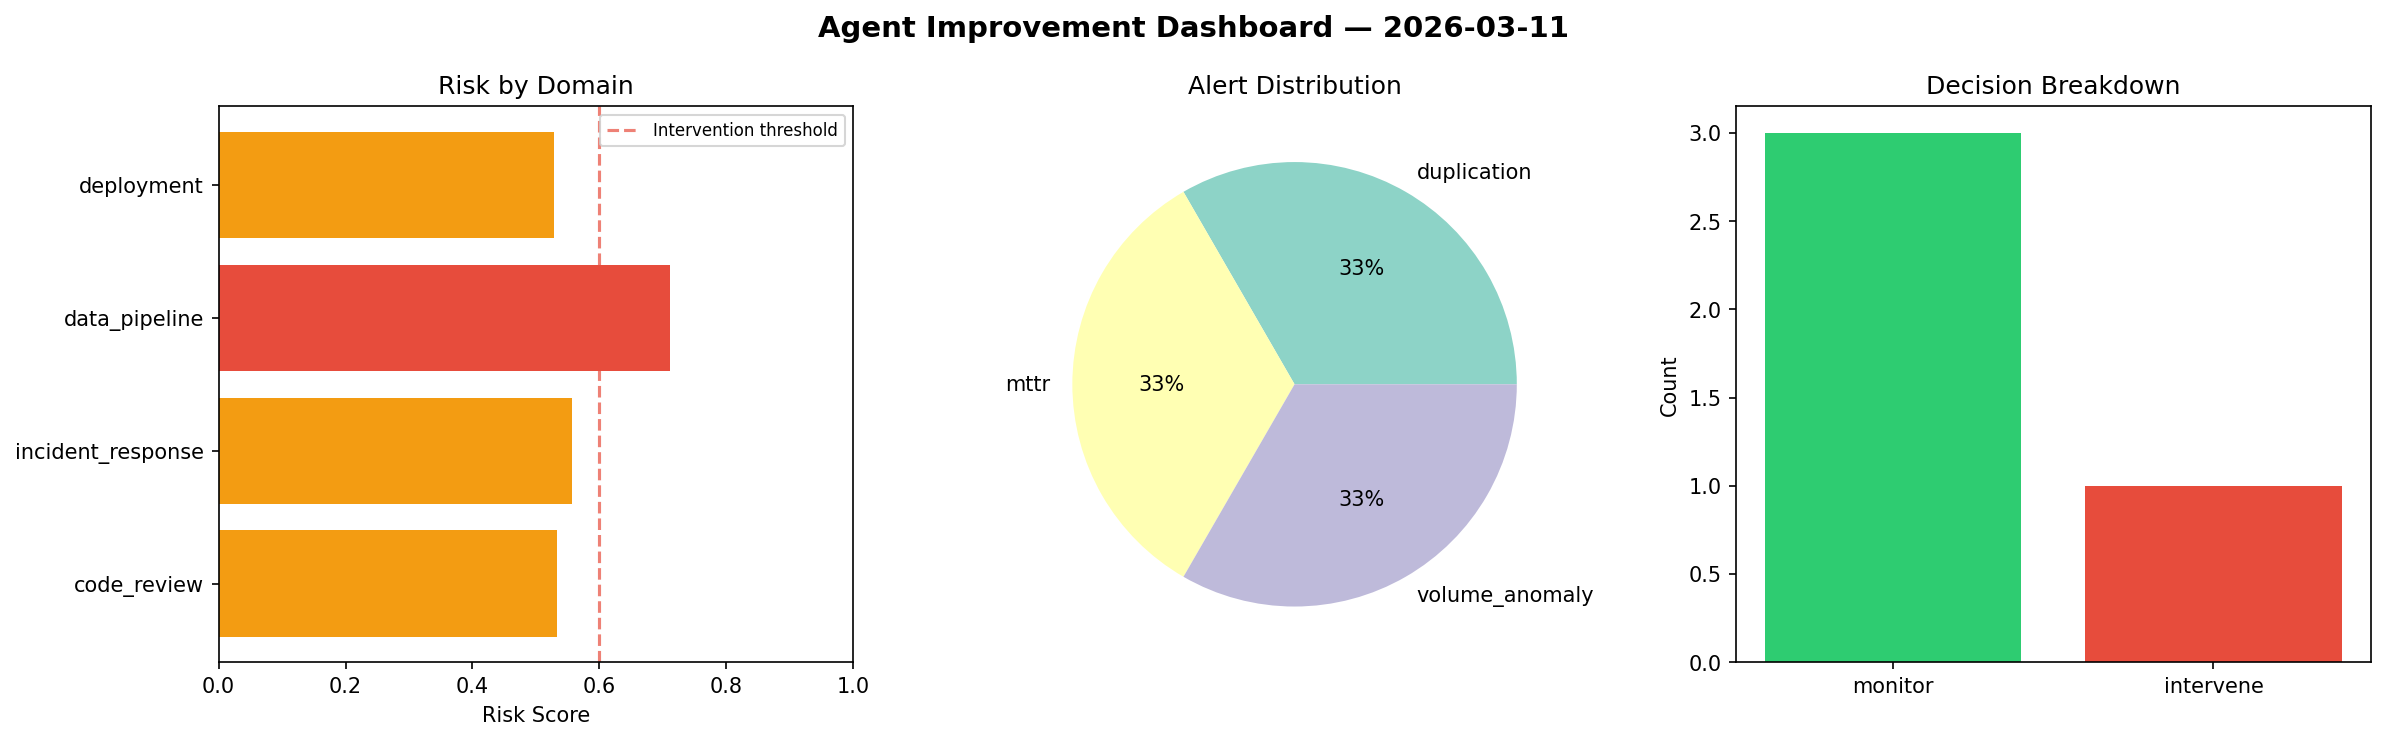
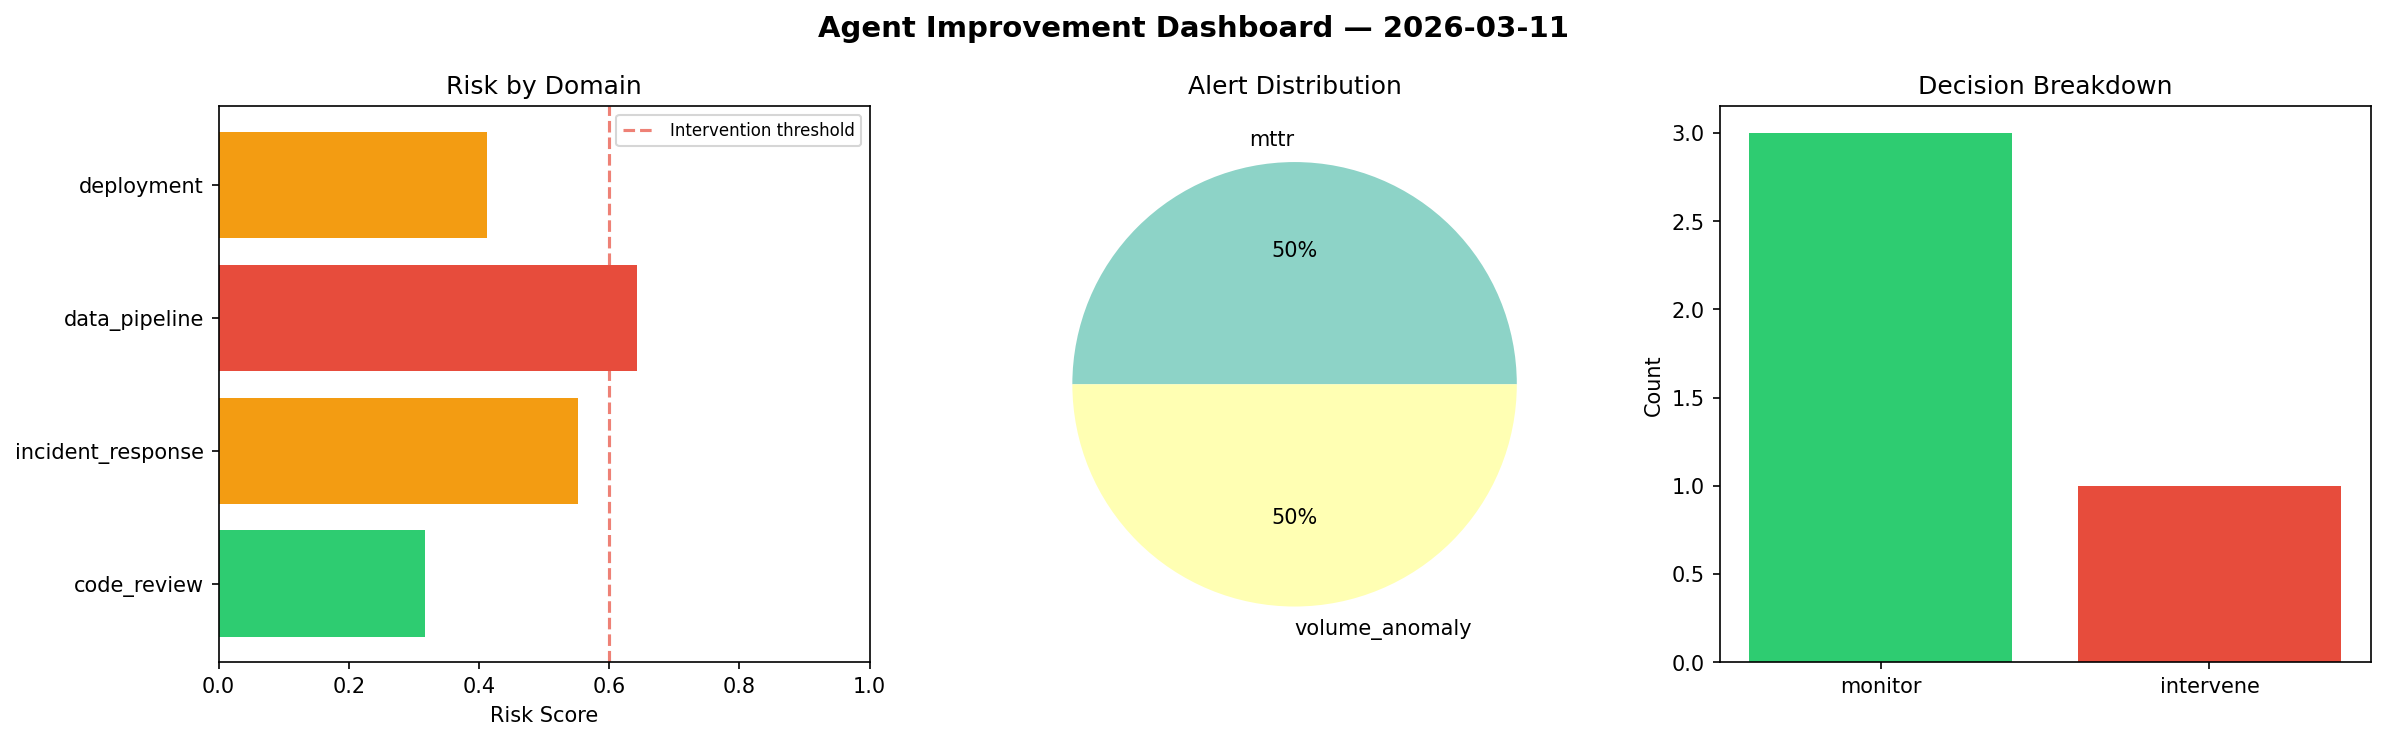
agent-improvement: daily cycle 2026-03-11T20:49

diff --git a/logs/2026-03-11.md b/logs/2026-03-11.md
@@ -1,6 +1,6 @@
 # Agent Improvement Report — 2026-03-11
 
-**Cycle ID:** `1399dc4c` | **Avg Risk:** 0.5824 | **Interventions:** 1/4
+**Cycle ID:** `5e964399` | **Avg Risk:** 0.4812 | **Interventions:** 1/4
 
 ![Dashboard](2026-03-11_dashboard.png)
 
@@ -10,18 +10,18 @@
 
 | Domain | Risk Score | Decision | Alerts |
 |--------|-----------|----------|--------|
-| code_review | 0.5337 | monitor | duplication |
-| incident_response | 0.5561 | monitor | mttr |
-| data_pipeline | 0.712 | intervene | volume_anomaly |
-| deployment | 0.5279 | monitor | none |
+| code_review | 0.3174 | monitor | none |
+| incident_response | 0.5522 | monitor | mttr |
+| data_pipeline | 0.6425 | intervene | volume_anomaly |
+| deployment | 0.4127 | monitor | none |
 
 ## Delta vs Yesterday
 
 | Domain | Today | Yesterday | Change |
 |--------|-------|-----------|--------|
-| code_review | 0.5337 | 0.4385 | 📈 21.7% |
-| incident_response | 0.5561 | 0.5311 | 📈 4.7% |
-| data_pipeline | 0.712 | 0.5784 | 📈 23.1% |
-| deployment | 0.5279 | 0.8283 | 📉 -36.3% |
+| code_review | 0.3174 | 0.4385 | 📉 -27.6% |
+| incident_response | 0.5522 | 0.5311 | 📈 4.0% |
+| data_pipeline | 0.6425 | 0.5784 | 📈 11.1% |
+| deployment | 0.4127 | 0.8283 | 📉 -50.2% |
 
-**Refinement:** `{'adjustment': 'maintain', 'trend': 'improving', 'window': 4}`
+**Refinement:** `{'adjustment': 'tighten_thresholds', 'trend': 'degrading', 'window': 4}`
